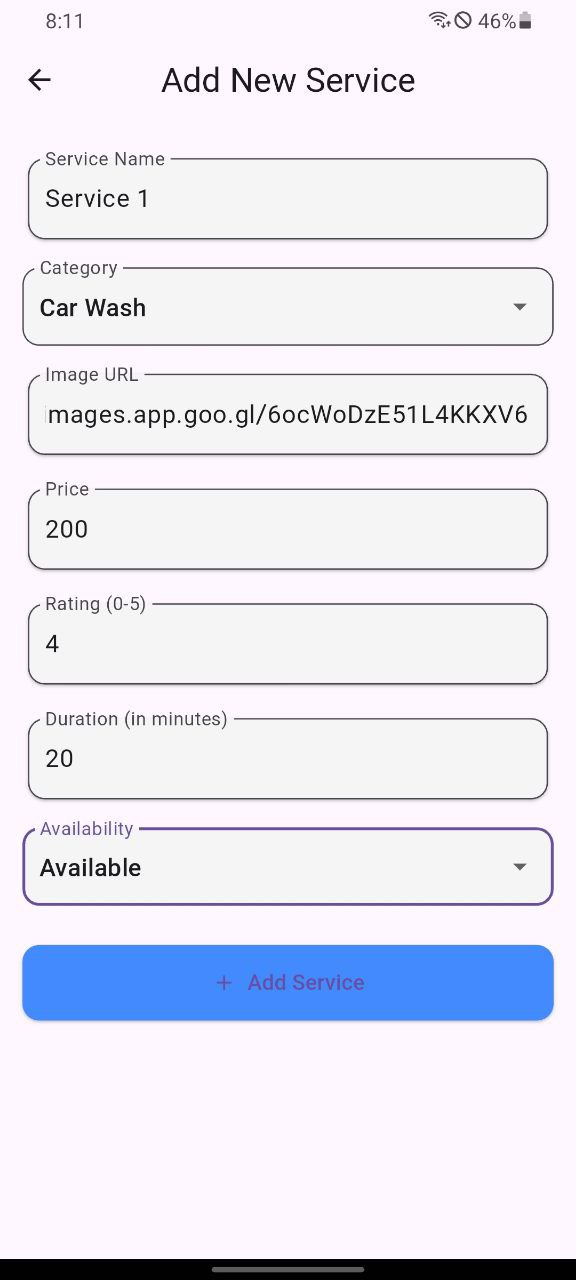
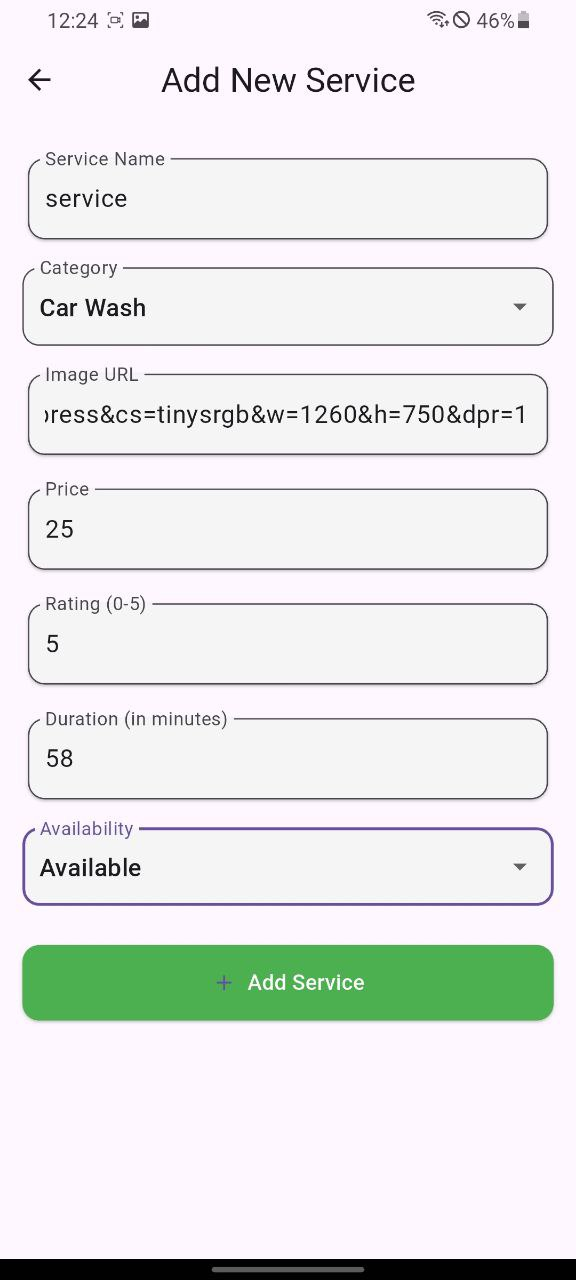
add gif

diff --git a/lib/presentation/pages/add_service_page.dart b/lib/presentation/pages/add_service_page.dart
@@ -101,12 +101,7 @@ class _AddServicePageState extends State<AddServicePage> {
   }
 
   Widget _buildCategoryDropdown() {
-    const categories = [
-      'Cleaning',
-      'Repair',
-      'Car Wash',
-      'Catering'
-    ];
+    const categories = ['Cleaning', 'Repair', 'Car Wash', 'Catering'];
 
     return Padding(
       padding: const EdgeInsets.symmetric(vertical: 8.0),
@@ -208,10 +203,13 @@ class _AddServicePageState extends State<AddServicePage> {
                 ElevatedButton.icon(
                   onPressed: isFormValid ? _addService : null,
                   icon: const Icon(Icons.add),
-                  label: Text('add_service'.tr),
+                  label: Text(
+                    'add_service'.tr,
+                    style: TextStyle(color: Colors.white),
+                  ),
                   style: ElevatedButton.styleFrom(
                     padding: const EdgeInsets.symmetric(vertical: 16),
-                    backgroundColor: Colors.blueAccent,
+                    backgroundColor: Colors.green,
                     disabledBackgroundColor: Colors.grey,
                     shape: RoundedRectangleBorder(
                         borderRadius: BorderRadius.circular(12)),

diff --git a/lib/presentation/pages/service_details_page.dart b/lib/presentation/pages/service_details_page.dart
@@ -82,17 +82,19 @@ class ServiceDetailsPage extends StatelessWidget {
 
               const SizedBox(height: 20),
 
-              ElevatedButton.icon(
+                ElevatedButton.icon(
                 onPressed: () => Get.toNamed('/edit-service/${service.id}'),
                 icon: const Icon(Icons.edit),
-                label: Text('editService'.tr),
+                label: Text('editService'.tr,
+                  style: const TextStyle(color: Colors.white)),
                 style: ElevatedButton.styleFrom(
                   minimumSize: const Size(double.infinity, 48),
                   shape: RoundedRectangleBorder(
-                    borderRadius: BorderRadius.circular(10),
+                  borderRadius: BorderRadius.circular(10),
                   ),
+                  backgroundColor: Colors.green, // Added green color
                 ),
-              )
+                )
             ],
           ),
         ),

diff --git a/lib/presentation/pages/edit_service_page.dart b/lib/presentation/pages/edit_service_page.dart
@@ -220,7 +220,10 @@ class _EditServicePageState extends State<EditServicePage> {
                 ElevatedButton.icon(
                   onPressed: isFormValid ? _saveChanges : null,
                   icon: const Icon(Icons.save),
-                  label: Text('save'.tr),
+                  label: Text(
+                    'save'.tr,
+                    style: TextStyle(color: Colors.white),
+                  ),
                   style: ElevatedButton.styleFrom(
                     padding: const EdgeInsets.symmetric(vertical: 16),
                     backgroundColor: Colors.green,

diff --git a/README.md b/README.md
@@ -14,7 +14,10 @@ A clean, responsive, and modern **Flutter frontend** for a Mini Service Booking 
 |--------------------------------------|-----------------------------------------|---------------------------------------|
 | ![Home](screenshots/additems.jpg)        | ![Details](screenshots/local.jpg)     | ![Edit](screenshots/login.jpg)         |
 
-> *(Include `.png` files inside `/screenshots` folder or replace with GIFs or video links.)*
+>
+## 🎥 Demo
+
+![Demo](screenshots/video.gif)
 
 ---
 
@@ -51,32 +54,36 @@ This app serves as a **frontend-only** mini booking platform where users can:
    git clone https://github.com/yourusername/mini_service_booking.git
    cd mini_service_booking
 2. **Install dependencies**
+ ```bash
    flutter pub get
 3. **Run the app**
+ ```bash
    flutter run
 4. **Update API base URL (if needed)**
     Inside /lib/core/constants/api_constants.dart
+     ```bash
     const baseUrl = 'https://681d1447f74de1d219aebf17.mockapi.io/api/v1/';
 
 ## 📦 Folder Structure
+  ```bash
 lib/
 ├── core/
-│   ├── bindings/              # App-wide bindings for DI
-│   ├── constants/             # API constants, app-wide strings
-│   ├── utils/                 # 
+│   ├── bindings/         # App-wide bindings for dependency injection
+│   ├── constants/        # API constants, app-wide strings
+│   ├── utils/            # Helper utilities
 ├── data/
-│   ├── models/                # Data models (ServiceModel, etc.)
-│   ├── providers/             # API services (ServiceApi)
-│   ├── services/
+│   ├── models/           # Data models (ServiceModel, etc.)
+│   ├── providers/        # API services (ServiceApi)
+│   ├── services/         # Core services (e.g., network, storage)
 ├── l10n/
-│   ├── translations/ 
+│   ├── translations/     # i18n GetX translation files
 ├── presentation/
-│   ├── controllers/           # GetX controllers
-│   ├── pages/                 # Screens (HomePage, DetailPage, etc.)
-│   ├── widgets/               # Reusable UI components (ServiceCard,etc.)
-├── routes/
-│   
-├── main.dart                  # Entry point
+│   ├── controllers/      # GetX controllers
+│   ├── pages/            # Screens (HomePage, DetailPage, etc.)
+│   ├── widgets/          # Reusable UI components (ServiceCard, etc.)
+├── routes/               # App routes
+├── main.dart             # Entry point
+
 
 
 ## ✅ Implemented Features
